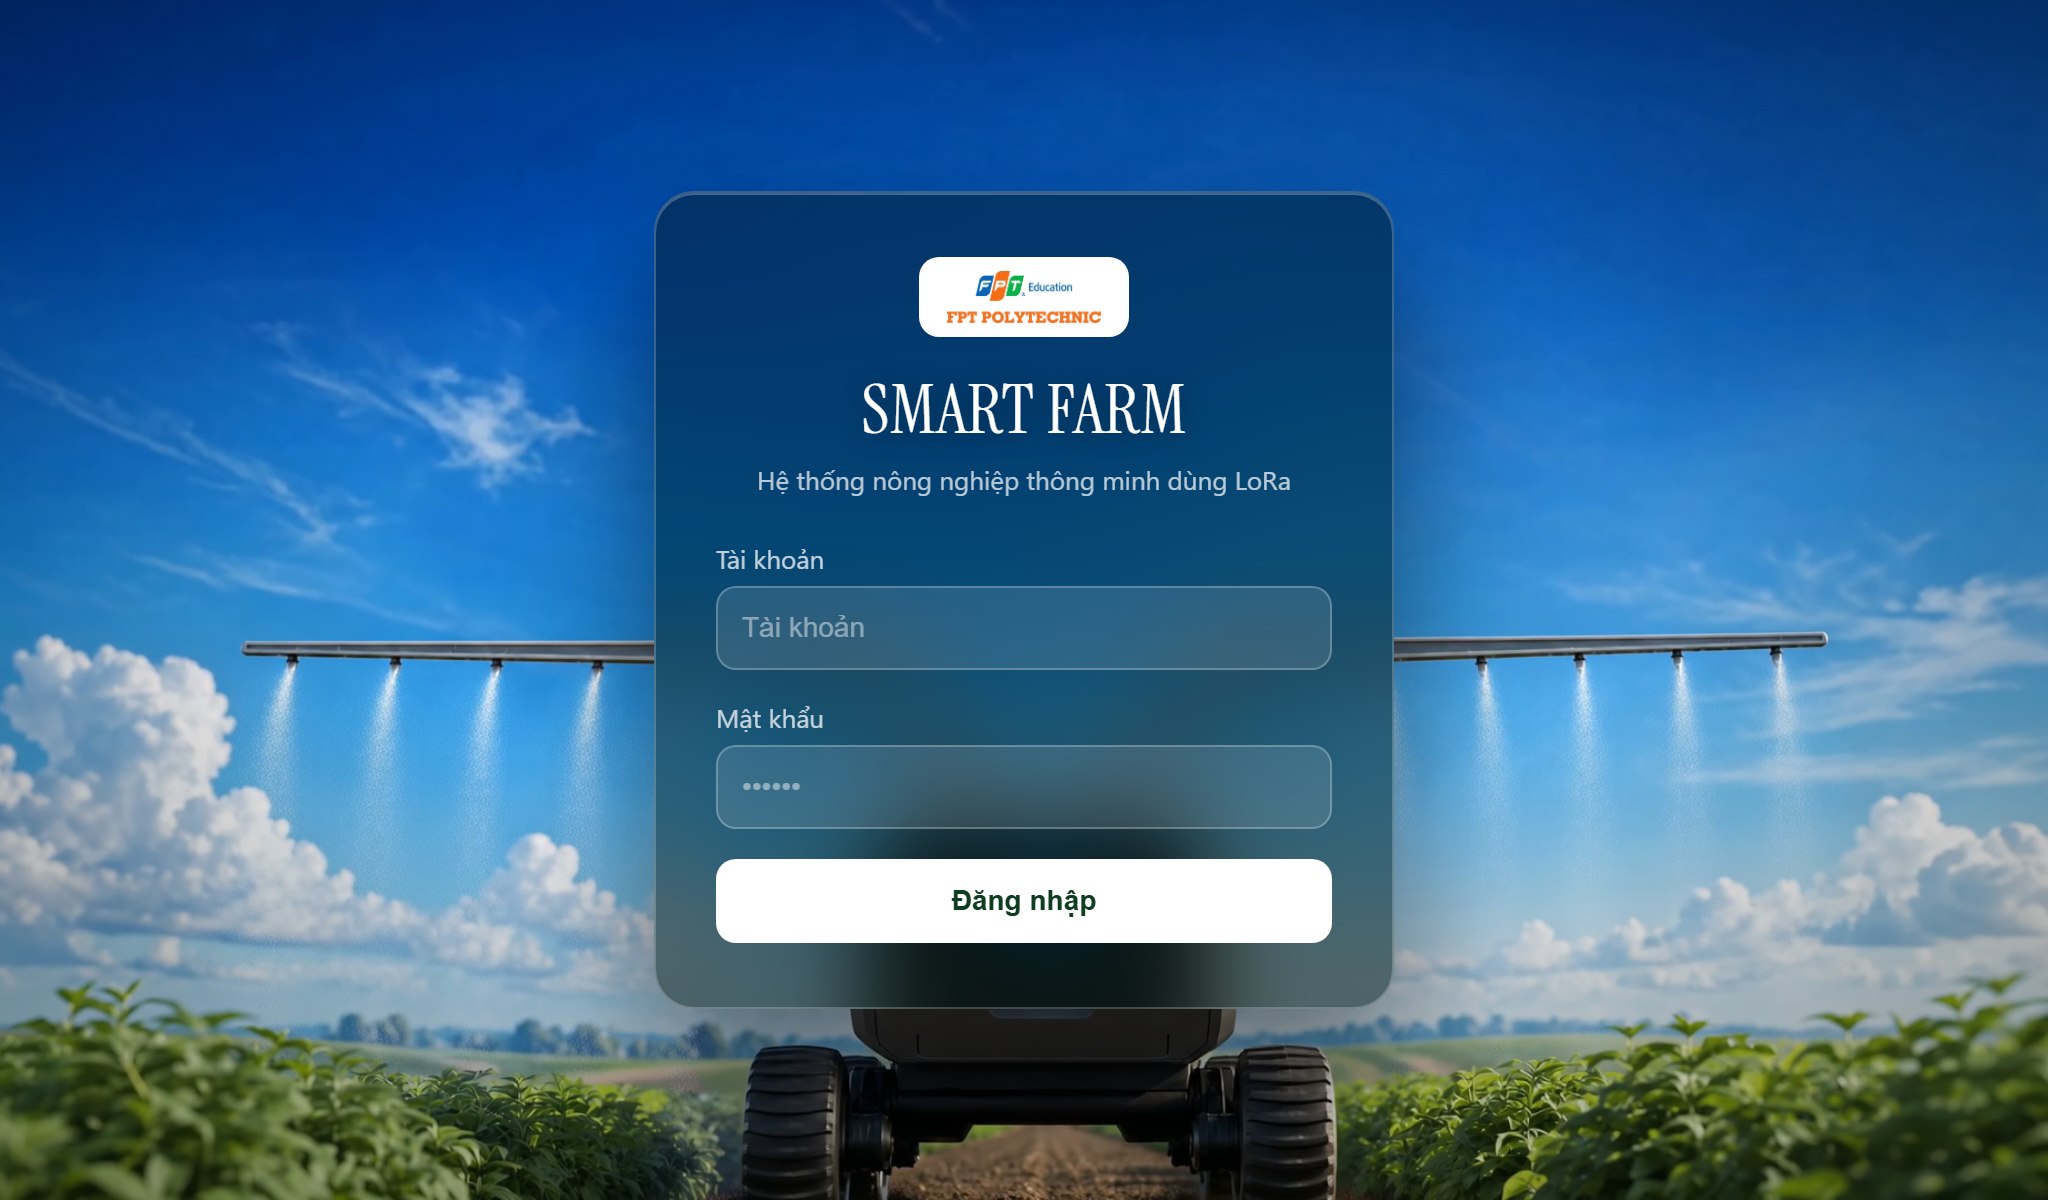
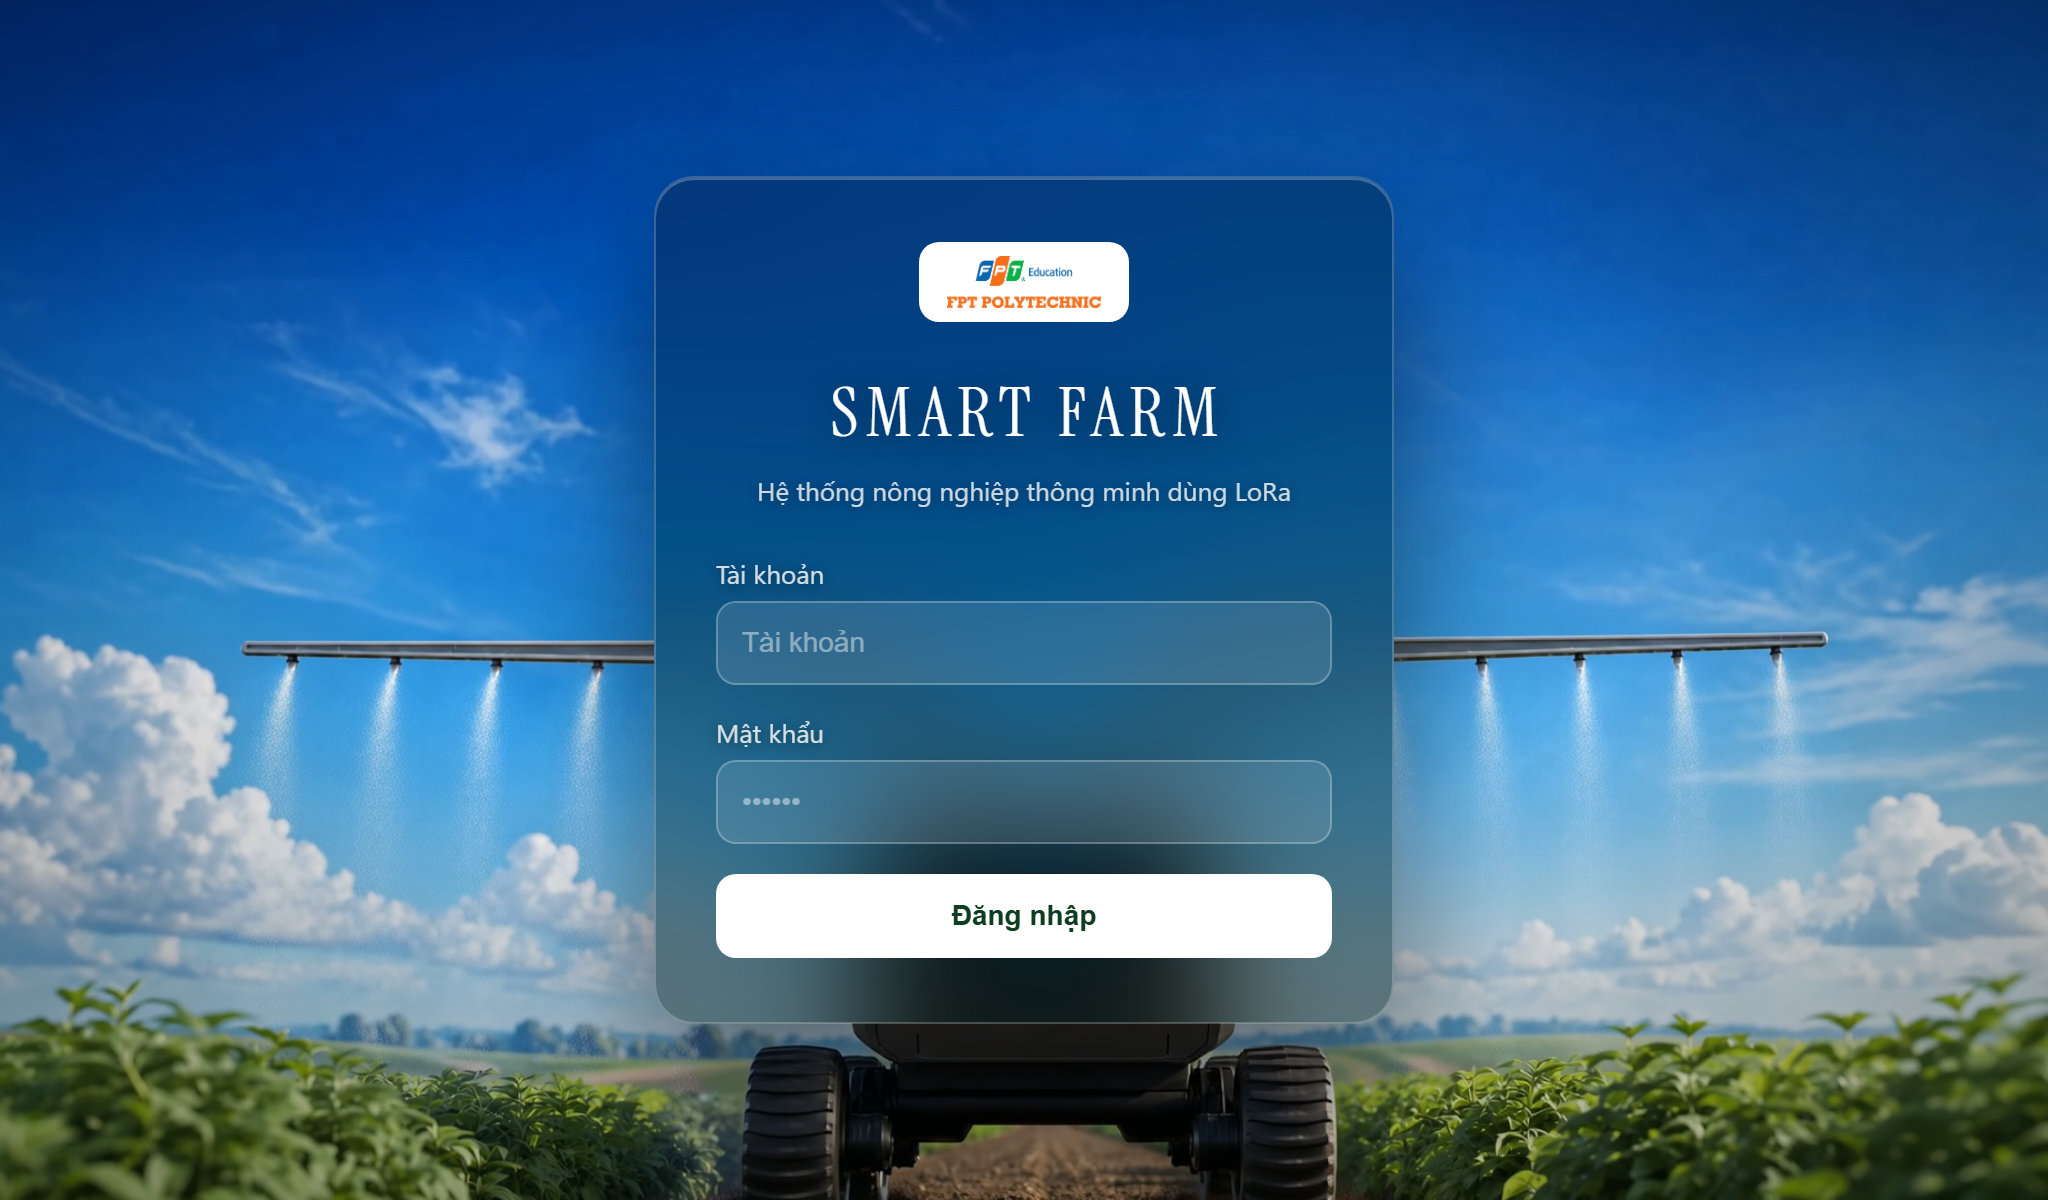
Thin the login card and open up the wordmark
Card tint drops from 0.55 to 0.46 so more of the field shows through -- the
ground and the machine's wheels now read under the lower half of the card.

Blur goes up to 30px to pay for it. That is not decoration: blur mixes a bright
cloud with the blue around it before any text sits on top, so the worst-case
patch behind the card is never as bright as the cloud itself. Without that, 0.46
would lose the small labels every time weather crosses behind the card, and the
footage is in constant motion.

The small text also picks up a faint shadow for the same reason. On a card this
thin, 13px type is the first thing to go.

SMART FARM gets 4px of letter-spacing. Instrument Serif is narrow, and set tight
the wordmark reads as one block rather than two words. The matching text-indent
offsets the trailing space the last letter's spacing adds, which otherwise pulls
the line visually left of the card's centre.

diff --git a/frontend/src/styles.css b/frontend/src/styles.css
@@ -383,16 +383,17 @@ th em { font-style: normal; font-weight: 400; color: var(--faint); }
 }
 
 /* Kinh mo that su: nhin xuyen thay video chay ben duoi.
-   Do dam 0.55 khong phai chon cho dep — do la muc thap nhat con giu duoc chu
-   trang doc ro khi phia sau la may trang xoa. Nhat hon nua thi luc may troi qua
-   la mat chu. Blur giup them, vi no boi phang cac mang sang toi nho. */
+   Do dam 0.46 la muc nhat nhat con dung duoc. Blur day len 30px de bu: no tron
+   dam may trang voi nen troi xanh quanh no, nen mang sang gay gat nhat bi keo
+   toi lai truoc khi chu nam len tren. Nhat hon nua nua thi luc may troi qua sau
+   the la chu mo di — ma video thi chuyen dong lien tuc. */
 .login-card {
   position: relative;
   z-index: 1;
   width: min(370px, calc(100vw - 32px));
-  background: rgba(6, 22, 14, 0.55);
-  backdrop-filter: blur(22px) saturate(1.3);
-  -webkit-backdrop-filter: blur(22px) saturate(1.3);
+  background: rgba(6, 22, 14, 0.46);
+  backdrop-filter: blur(30px) saturate(1.35);
+  -webkit-backdrop-filter: blur(30px) saturate(1.35);
   border: 1px solid rgba(255, 255, 255, 0.22);
   border-radius: 20px;
   box-shadow:
@@ -411,7 +412,7 @@ th em { font-style: normal; font-weight: 400; color: var(--faint); }
   height: 40px;
   width: auto;
   max-width: 100%;
-  margin: 0 auto 18px;
+  margin: 0 auto 22px;
   padding: 7px 14px;
   background: #fff;
   border-radius: 10px;
@@ -426,12 +427,27 @@ th em { font-style: normal; font-weight: 400; color: var(--faint); }
 
 .login-brand {
   font-family: 'Instrument Serif', Georgia, 'Times New Roman', serif;
-  font-size: 34px; font-weight: 400; letter-spacing: 0.5px;
-  color: #fff; text-align: center; line-height: 1.1;
-  text-shadow: 0 2px 12px rgba(0, 0, 0, 0.4);
+  font-size: 34px; font-weight: 400;
+  /* Gian chu ra cho thoang. Instrument Serif von hep ngang, de sat nhau thi
+     doc nhu mot khoi lien. */
+  letter-spacing: 4px;
+  /* Bu lai phan khoang trang thua ben phai chu cuoi, neu khong dong chu se
+     lech trai mot chut so voi tam the. */
+  text-indent: 4px;
+  color: #fff; text-align: center; line-height: 1.15;
+  margin-top: 4px;
+  text-shadow: 0 2px 14px rgba(0, 0, 0, 0.5);
 }
-.login-sub { color: rgba(255,255,255,0.72); font-size: 13px; text-align: center; margin: 7px 0 22px; }
-.login-card label { font-size: 13px; color: rgba(255,255,255,0.75); margin-bottom: 5px; }
+/* The trong hon thi chu nho can mot vet bong rat nhe — khong phai de trang tri
+   ma de no khong bi nhoe khi dam may sang troi qua phia sau. */
+.login-sub {
+  color: rgba(255, 255, 255, 0.8); font-size: 13px; text-align: center;
+  margin: 10px 0 24px; text-shadow: 0 1px 6px rgba(0, 0, 0, 0.45);
+}
+.login-card label {
+  font-size: 13px; color: rgba(255, 255, 255, 0.82); margin-bottom: 5px;
+  text-shadow: 0 1px 6px rgba(0, 0, 0, 0.45);
+}
 /* O nhap cung trong mo, nhung phai DAY hon nen the mot chut — neu bang nhau
    thi khong con nhin ra dau la cho go chu. */
 .login-card input {
